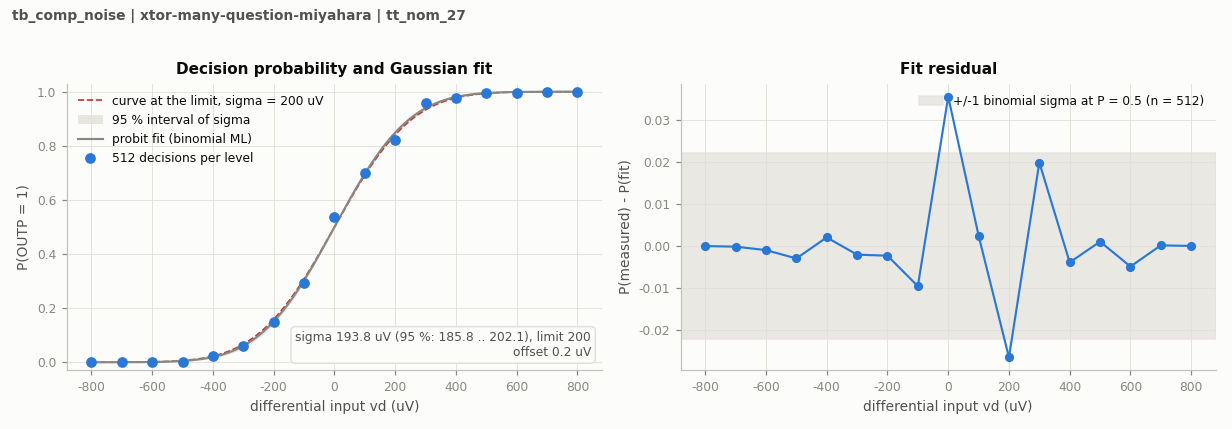
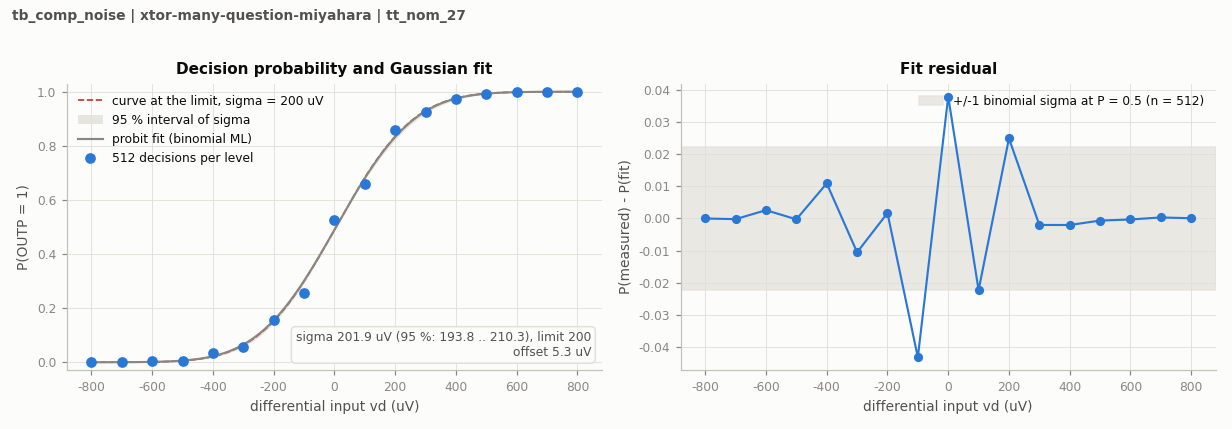
Retain strict Miyahara B12 TT noise failure and margin analysis

diff --git a/design/xtor/adc_comp/many-question-miyahara/FORMAL-BUFFER-V12.md b/design/xtor/adc_comp/many-question-miyahara/FORMAL-BUFFER-V12.md
@@ -16,4 +16,20 @@ The genuine [TT kickback JSON](../../../../results/adc_comp/tb_comp_kickback/xto
 
[1 lines of base64/hex data omitted]
 
-One official case is fresh for B12; 91 old-source records remain stale. TT noise is the next gate. Remaining-corner stress, full official coverage, mismatch and mixed-top qualification remain open. No old-source performance is inherited.
+## TT transient noise: failed gate
+
+Actual clean source commit: `701c79c85148d11a29018eb8442ada2699330acd`. Official run: `20261031-060215-b7b5-tb_comp_noise`. The original 17 levels, 512 decisions per level, 50 GHz upper noise frequency, seed 1, sampler, numerical settings and measurement are unchanged.
+
+| Metric | Measured | Limit | Result |
+|---|---:|---:|---|
+| Input-referred noise | 201.879919 uV rms | 200 uV at TT | fail |
+| Noise 95% profile-likelihood interval | 193.82 to 210.34 uV | — | reported |
+| Absolute systematic offset | 0.005300 mV | 2 mV | pass |
+
+The genuine [TT noise JSON](../../../../results/adc_comp/tb_comp_noise/xtor-many-question-miyahara/tt_nom_27.json) retains the strict failure. The confidence interval crossing 200 uV does not change the specified point-estimate verdict. All 8,704 samples are present, exactly 512 per level; minimum sampled output-difference magnitude is 0.873724 V and the largest standardized Gaussian-fit residual is 2.13. The curve has the expected monotonic transition. The original test saves the analog trace only at the end, so this run does not establish full reset or noise-transient SOA coverage.
+
+The old canonical TT noise was 193.758465 uV with interval 185.84 to 202.07 uV. The intervals overlap; the observed 8.121454 uV difference cannot by itself be assigned to a particular repair device or interpreted as a precise degradation. B12 still lacks required TT noise margin, and its expensive qualification expansion stops. A physically justified circuit revision will be evaluated; the seed and sample count will not be changed to seek a pass.
+
[1 lines of base64/hex data omitted]
+
+Two official cases are fresh for B12; 90 old-source records remain stale. Remaining-corner stress, full official coverage, mismatch and mixed-top qualification remain open. No old-source performance is inherited.

diff --git a/design/xtor/adc_comp/many-question-miyahara/README.md b/design/xtor/adc_comp/many-question-miyahara/README.md
@@ -4,9 +4,9 @@ The canonical `adc_comp.scs` now contains the electrically identical source scre
 
 The source contains 43 MOS devices and 9 physical MOM capacitors. All dimensions and terminal parasitics come from successful callbacks or exact validated geometry reuse. Physical rail loads carry persistent current; [ENERGY-COMPARISON.md](ENERGY-COMPARISON.md) reports measured complete-circuit AVDD costs. No power limit or topology-efficiency conclusion is implied.
 
-The old canonical netlist and all 92 official records are preserved at commit `efe4fe080ceaa9ba37f8bdfbf4a6b3eccae311ed` and in a SHA-verified archive. At promotion all 92 records became stale. One genuine new-source TT capacitance/kickback case has now been recorded; 91 old-source records remain stale. Further records will be replaced only by actual new-source runs through the existing official runner; no private measurements or old metadata are relabeled. [Promotion proof](PROMOTION-BUFFER-V12.md) records source equivalence and preserved hashes. [Historical baseline](BASELINE-BEFORE-BUFFER-V12.md) retains the previous narrative and experiment links.
+The old canonical netlist and all 92 official records are preserved at commit `efe4fe080ceaa9ba37f8bdfbf4a6b3eccae311ed` and in a SHA-verified archive. At promotion all 92 records became stale. Genuine new-source TT capacitance/kickback and noise cases have now been recorded; 90 old-source records remain stale. Further records will be replaced only by actual new-source runs through the existing official runner; no private measurements or old metadata are relabeled. [Promotion proof](PROMOTION-BUFFER-V12.md) records source equivalence and preserved hashes. [Historical baseline](BASELINE-BEFORE-BUFFER-V12.md) retains the previous narrative and experiment links.
 
-[Official TT capacitance/kickback](FORMAL-BUFFER-V12.md) passes: input 19.328731 fF, CLKC 9.609325 fF and kickback 0.002026 uV. TT noise is the next formal gate. Remaining-corner SOA, all required formal corners, Monte Carlo and mixed-top qualification remain to establish. No old capacitance, noise, mismatch or qualification result is inherited.
+[Official TT capacitance/kickback](FORMAL-BUFFER-V12.md) passes: input 19.328731 fF, CLKC 9.609325 fF and kickback 0.002026 uV. Official TT noise fails at 201.879919 uV rms against the 200 uV limit; systematic offset is 0.005300 mV. B12 expansion stops while circuit work continues to establish noise margin. Remaining-corner SOA, all required formal corners, Monte Carlo and mixed-top qualification remain to establish. No old capacitance, noise, mismatch or qualification result is inherited.
 
 ![Current complete transistor schematic](schematic.png)
 
